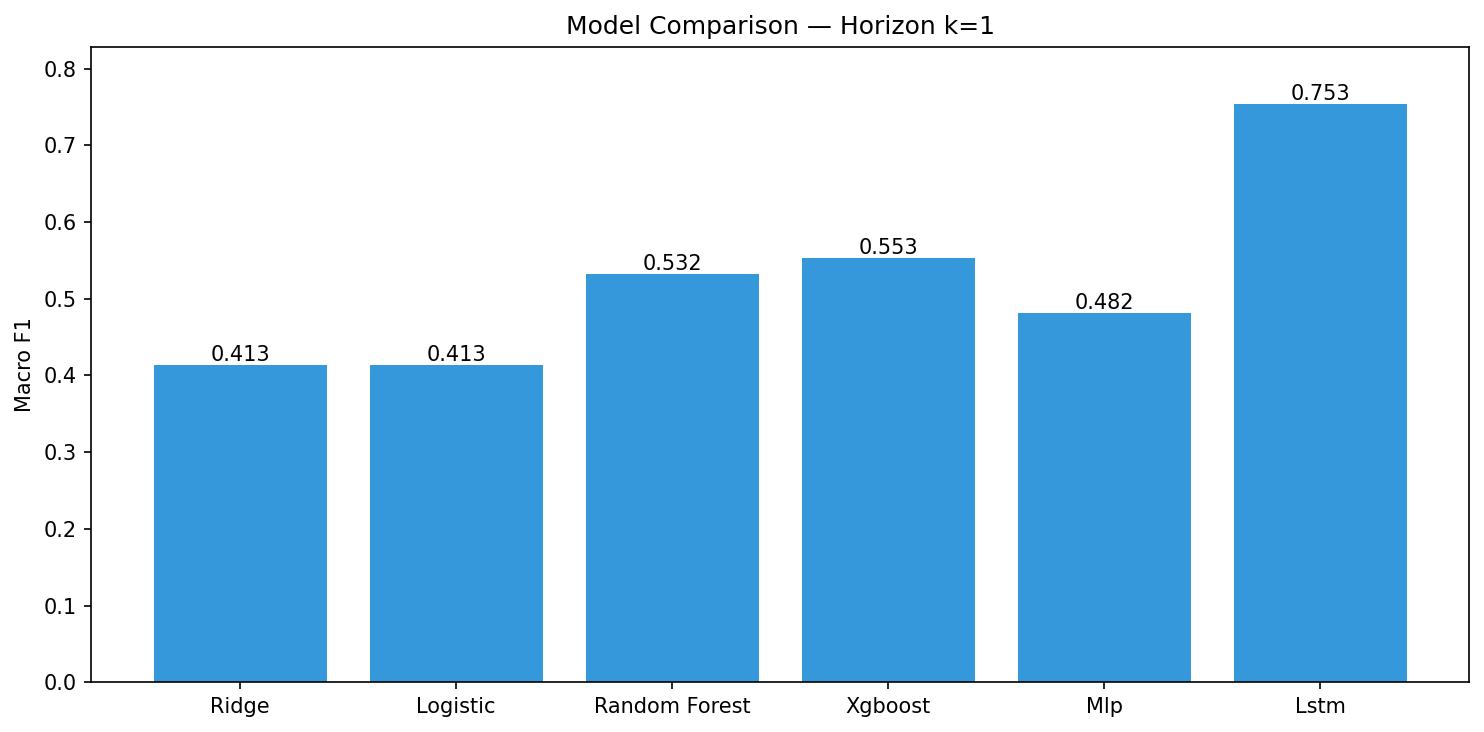
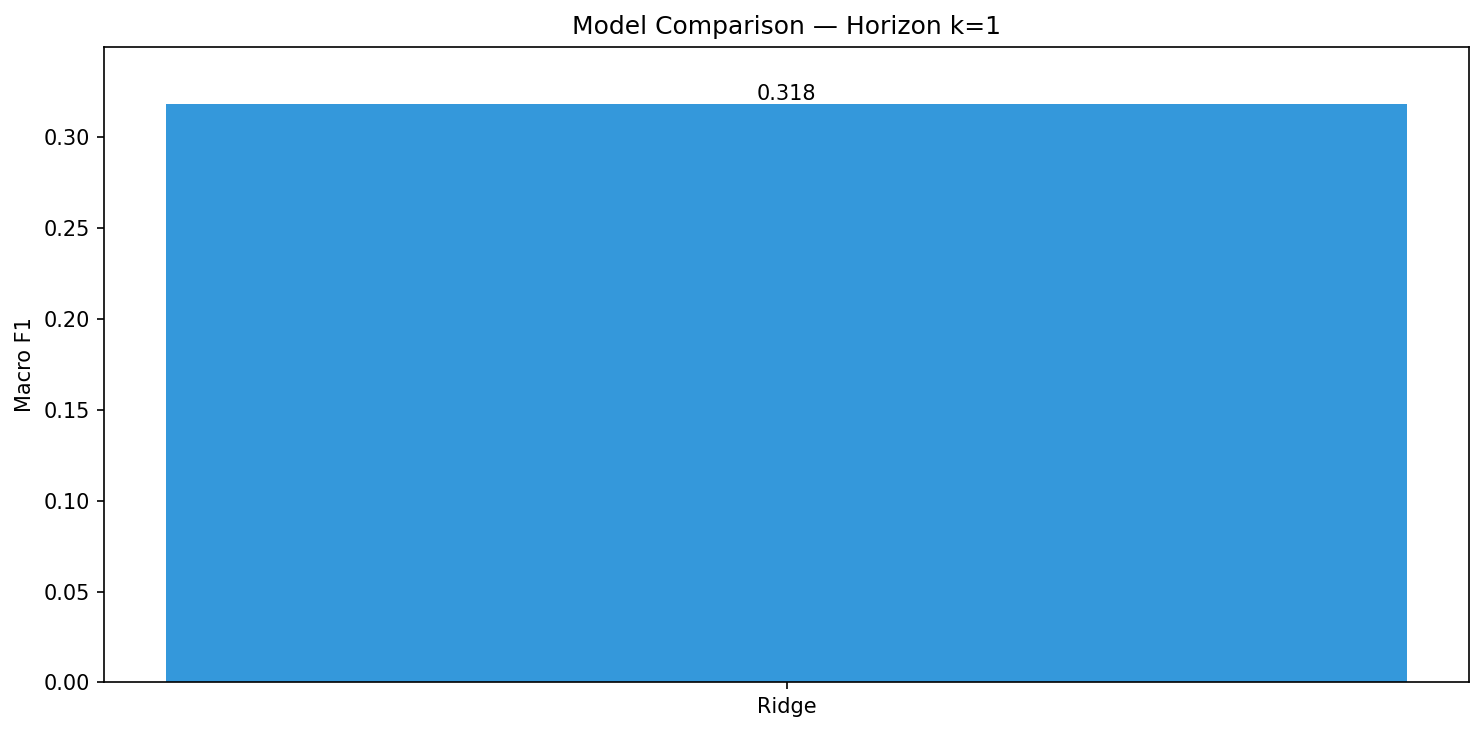
Updated README and run_all

diff --git a/src/run_all.py b/src/run_all.py
@@ -6,6 +6,13 @@ import time
 from src.logistic_regression import run as run_logistic
 from src.lstm_model import run as run_lstm
 from src.mlp_model import run as run_mlp
+from src.plot_results import (
+    plot_comparison,
+    plot_confusion_matrices,
+    plot_feature_importance,
+    plot_heatmap,
+    plot_loss_curves,
+)
 from src.random_forest import run as run_random_forest
 from src.ridge_regression import run as run_ridge
 from src.xgboost_model import run as run_xgboost
@@ -19,6 +26,22 @@ MODEL_RUNNERS = {
     "mlp": run_mlp,
     "lstm": run_lstm,
 }
+PLOT_CHOICES = ["all", "confusion", "loss", "importance", "comparison", "heatmap"]
+
+
+def generate_plots(models, horizon, results_root, out_dir, plot_type):
+    """Generate reports for one horizon from saved model outputs."""
+    print(f"\n  Generating {plot_type} plots for horizon k={horizon} ...")
+    if plot_type in ("all", "confusion"):
+        plot_confusion_matrices(models, horizon, results_root, out_dir)
+    if plot_type in ("all", "loss"):
+        plot_loss_curves(models, horizon, results_root, out_dir)
+    if plot_type in ("all", "importance"):
+        plot_feature_importance(models, horizon, results_root, out_dir)
+    if plot_type in ("all", "comparison"):
+        plot_comparison(models, horizon, results_root, out_dir)
+    if plot_type in ("all", "heatmap"):
+        plot_heatmap(models, horizon, results_root, out_dir)
 
 
 def main():
@@ -26,6 +49,9 @@ def main():
     parser.add_argument("--data_dir", type=str, default="./data")
     parser.add_argument("--horizons", type=int, nargs="+", default=[5], choices=[1, 5, 10])
     parser.add_argument("--models", nargs="+", default=list(MODEL_RUNNERS.keys()), choices=list(MODEL_RUNNERS.keys()))
+    parser.add_argument("--plot", choices=PLOT_CHOICES, help="Generate plots after training finishes for each horizon")
+    parser.add_argument("--results_root", type=str, default="./output")
+    parser.add_argument("--out_dir", type=str, default="./reports")
     parser.add_argument("--debug", action="store_true")
     args = parser.parse_args()
 
@@ -34,6 +60,7 @@ def main():
     print(f"  Models:   {args.models}")
     print(f"  Horizons: {args.horizons}")
     print(f"  Debug:    {args.debug}")
+    print(f"  Plot:     {args.plot or 'none'}")
     print("=" * 60 + "\n")
 
     for horizon in args.horizons:
@@ -44,6 +71,8 @@ def main():
             started = time.time()
             MODEL_RUNNERS[model_name](args.data_dir, horizon, args.debug)
             print(f"\n  [{model_name}] k={horizon} completed in {time.time() - started:.1f}s\n")
+        if args.plot:
+            generate_plots(args.models, horizon, args.results_root, args.out_dir, args.plot)
 
     print("=" * 60)
     print("  ALL DONE")

diff --git a/README.md b/README.md
@@ -231,6 +231,34 @@ python -m src.xgboost_model
 python -m src.lstm_model
 ```
 
+To run multiple models and horizons in one command:
+
+```bash
+source .venv/bin/activate
+python -m src.run_all --models ridge logistic mlp random_forest xgboost lstm --horizons 1 5 10
+```
+
+To run all models for the default horizon only (`k=5`):
+
+```bash
+source .venv/bin/activate
+python -m src.run_all
+```
+
+To run all models for all supported horizons:
+
+```bash
+source .venv/bin/activate
+python -m src.run_all --horizons 1 5 10
+```
+
+To train and generate plots at the end of each horizon run:
+
+```bash
+source .venv/bin/activate
+python -m src.run_all --horizons 1 5 10 --plot all
+```
+
 Each script:
 
 1. Loads data using `data_loader.py`
@@ -243,6 +271,32 @@ Generated outputs:
 - Fold metrics, predictions, confusion matrices, histories, and model weights are saved in `output/<model>/horizon_<k>/`
 - Summary CSV files are saved in `output/<model>/horizon_<k>/summary.csv`
 - Plots are generated separately with `python -m src.plot_results` and saved in `reports/`
+
+To generate plots from saved outputs:
+
+```bash
+source .venv/bin/activate
+python -m src.plot_results --horizon 5 --plot all
+```
+
+Useful reporting commands:
+
+```bash
+# Generate all plots for horizon k=5
+python -m src.plot_results --horizon 5 --plot all
+
+# Generate only the model comparison chart
+python -m src.plot_results --horizon 5 --plot comparison
+
+# Generate plots for selected models only
+python -m src.plot_results --horizon 5 --models ridge logistic random_forest xgboost mlp lstm --plot all
+```
+
+Summaries are created automatically during training:
+
+- Per-model summaries: `output/<model>/horizon_<k>/summary.csv`
+- Combined training runs can be launched with `python -m src.run_all ...`, after which plots can be created from the saved `output/` files
+- `python -m src.run_all --horizons 1 5 10 --plot all` will train first and then generate reports for each requested horizon
 
 
 # Hardware Acceleration
